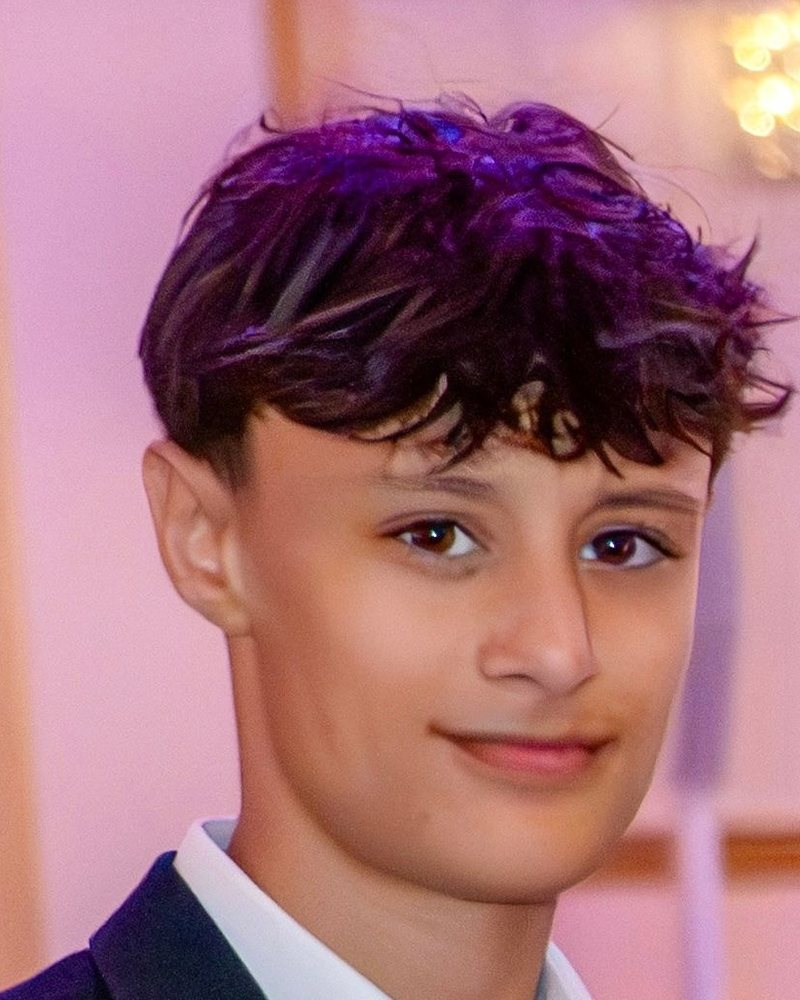
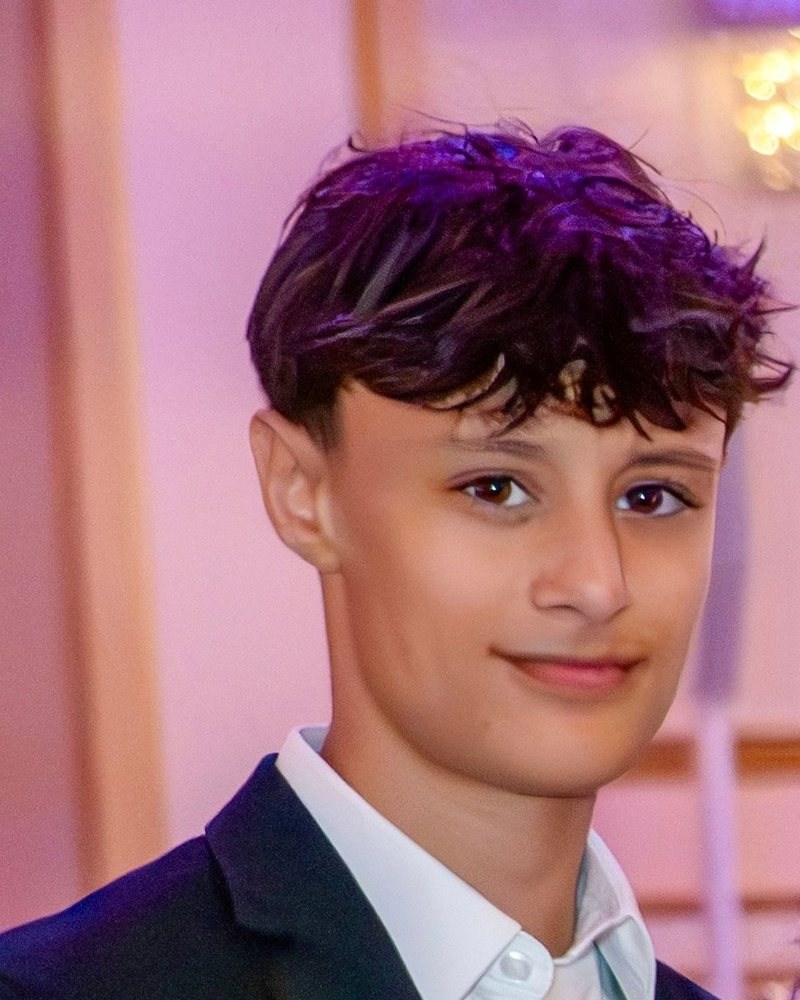
Ryder's photo: zoomed out to show more
Claude-Session: https://claude.ai/code/session_01R4Yd9DXFZUHxv4JskfZizu

diff --git a/whop-site/site/ryderziman.html b/whop-site/site/ryderziman.html
@@ -58,7 +58,7 @@ setTimeout(function(){r.classList.remove('intro-hold');},1150);setTimeout(functi
   if (fromSite && window.top !== window) addEventListener('load', function () { if (!moved) try { root.scrollIntoView({ block: 'start' }); } catch (e) {} });
 })();
 </script>
-<script type="application/ld+json">[{"@context": "https://schema.org", "@type": "Organization", "name": "Ziman Sites", "url": "https://zimansites.com", "logo": "https://zimansites.com/logo-512.png", "email": "zimansites@gmail.com", "foundingDate": "2026-08-24", "founder": [{"@type": "Person", "name": "Ryder Ziman"}]}, {"@context": "https://schema.org", "@type": "Person", "name": "Ryder Ziman", "jobTitle": "Founder", "image": "https://zimansites.com/assets/ryder-ziman.jpg?v=9668a1ea", "email": "mailto:ryderziman@gmail.com", "sameAs": ["https://www.linkedin.com/in/ryderziman"], "worksFor": {"@type": "Organization", "name": "Ziman Sites", "url": "https://zimansites.com"}}]</script>
+<script type="application/ld+json">[{"@context": "https://schema.org", "@type": "Organization", "name": "Ziman Sites", "url": "https://zimansites.com", "logo": "https://zimansites.com/logo-512.png", "email": "zimansites@gmail.com", "foundingDate": "2026-08-24", "founder": [{"@type": "Person", "name": "Ryder Ziman"}]}, {"@context": "https://schema.org", "@type": "Person", "name": "Ryder Ziman", "jobTitle": "Founder", "image": "https://zimansites.com/assets/ryder-ziman.jpg?v=c979d3ca", "email": "mailto:ryderziman@gmail.com", "sameAs": ["https://www.linkedin.com/in/ryderziman"], "worksFor": {"@type": "Organization", "name": "Ziman Sites", "url": "https://zimansites.com"}}]</script>
 </head>
 <body>
 <a class="skip" href="#main">Skip to content</a>
@@ -83,7 +83,7 @@ setTimeout(function(){r.classList.remove('intro-hold');},1150);setTimeout(functi
     <a class="back" href="/about#team"><svg viewBox="0 0 20 20" fill="none" stroke="currentColor" stroke-width="2" aria-hidden="true"><path d="M16 10H4M9 5l-5 5 5 5"/></svg>About Ziman Sites</a>
     <div class="profile">
       <div class="profile-card tilt-me reveal" aria-hidden="true">
-        <div class="portrait big photo"><img src="/assets/ryder-ziman.jpg?v=9668a1ea" alt="Ryder Ziman, founder of Ziman Sites" width="800" height="1000" decoding="async"></div>
+        <div class="portrait big photo"><img src="/assets/ryder-ziman.jpg?v=c979d3ca" alt="Ryder Ziman, founder of Ziman Sites" width="800" height="1000" decoding="async"></div>
         <span class="profile-tag">Founder · Ziman Sites</span>
       </div>
       <div class="profile-copy">

diff --git a/whop-site/site/about.html b/whop-site/site/about.html
@@ -94,7 +94,7 @@ setTimeout(function(){r.classList.remove('intro-hold');},1150);setTimeout(functi
     </div>
     <div class="founders solo">
       <article class="founder linked reveal">
-        <div class="portrait photo"><img src="/assets/ryder-ziman.jpg?v=9668a1ea" alt="Ryder Ziman" width="800" height="1000" loading="lazy" decoding="async"></div>
+        <div class="portrait photo"><img src="/assets/ryder-ziman.jpg?v=c979d3ca" alt="Ryder Ziman" width="800" height="1000" loading="lazy" decoding="async"></div>
         <div>
           <h3><a class="stretch" href="/ryderziman">Ryder Ziman</a></h3>
           <div class="role">Founder · Branding &amp; growth</div>
